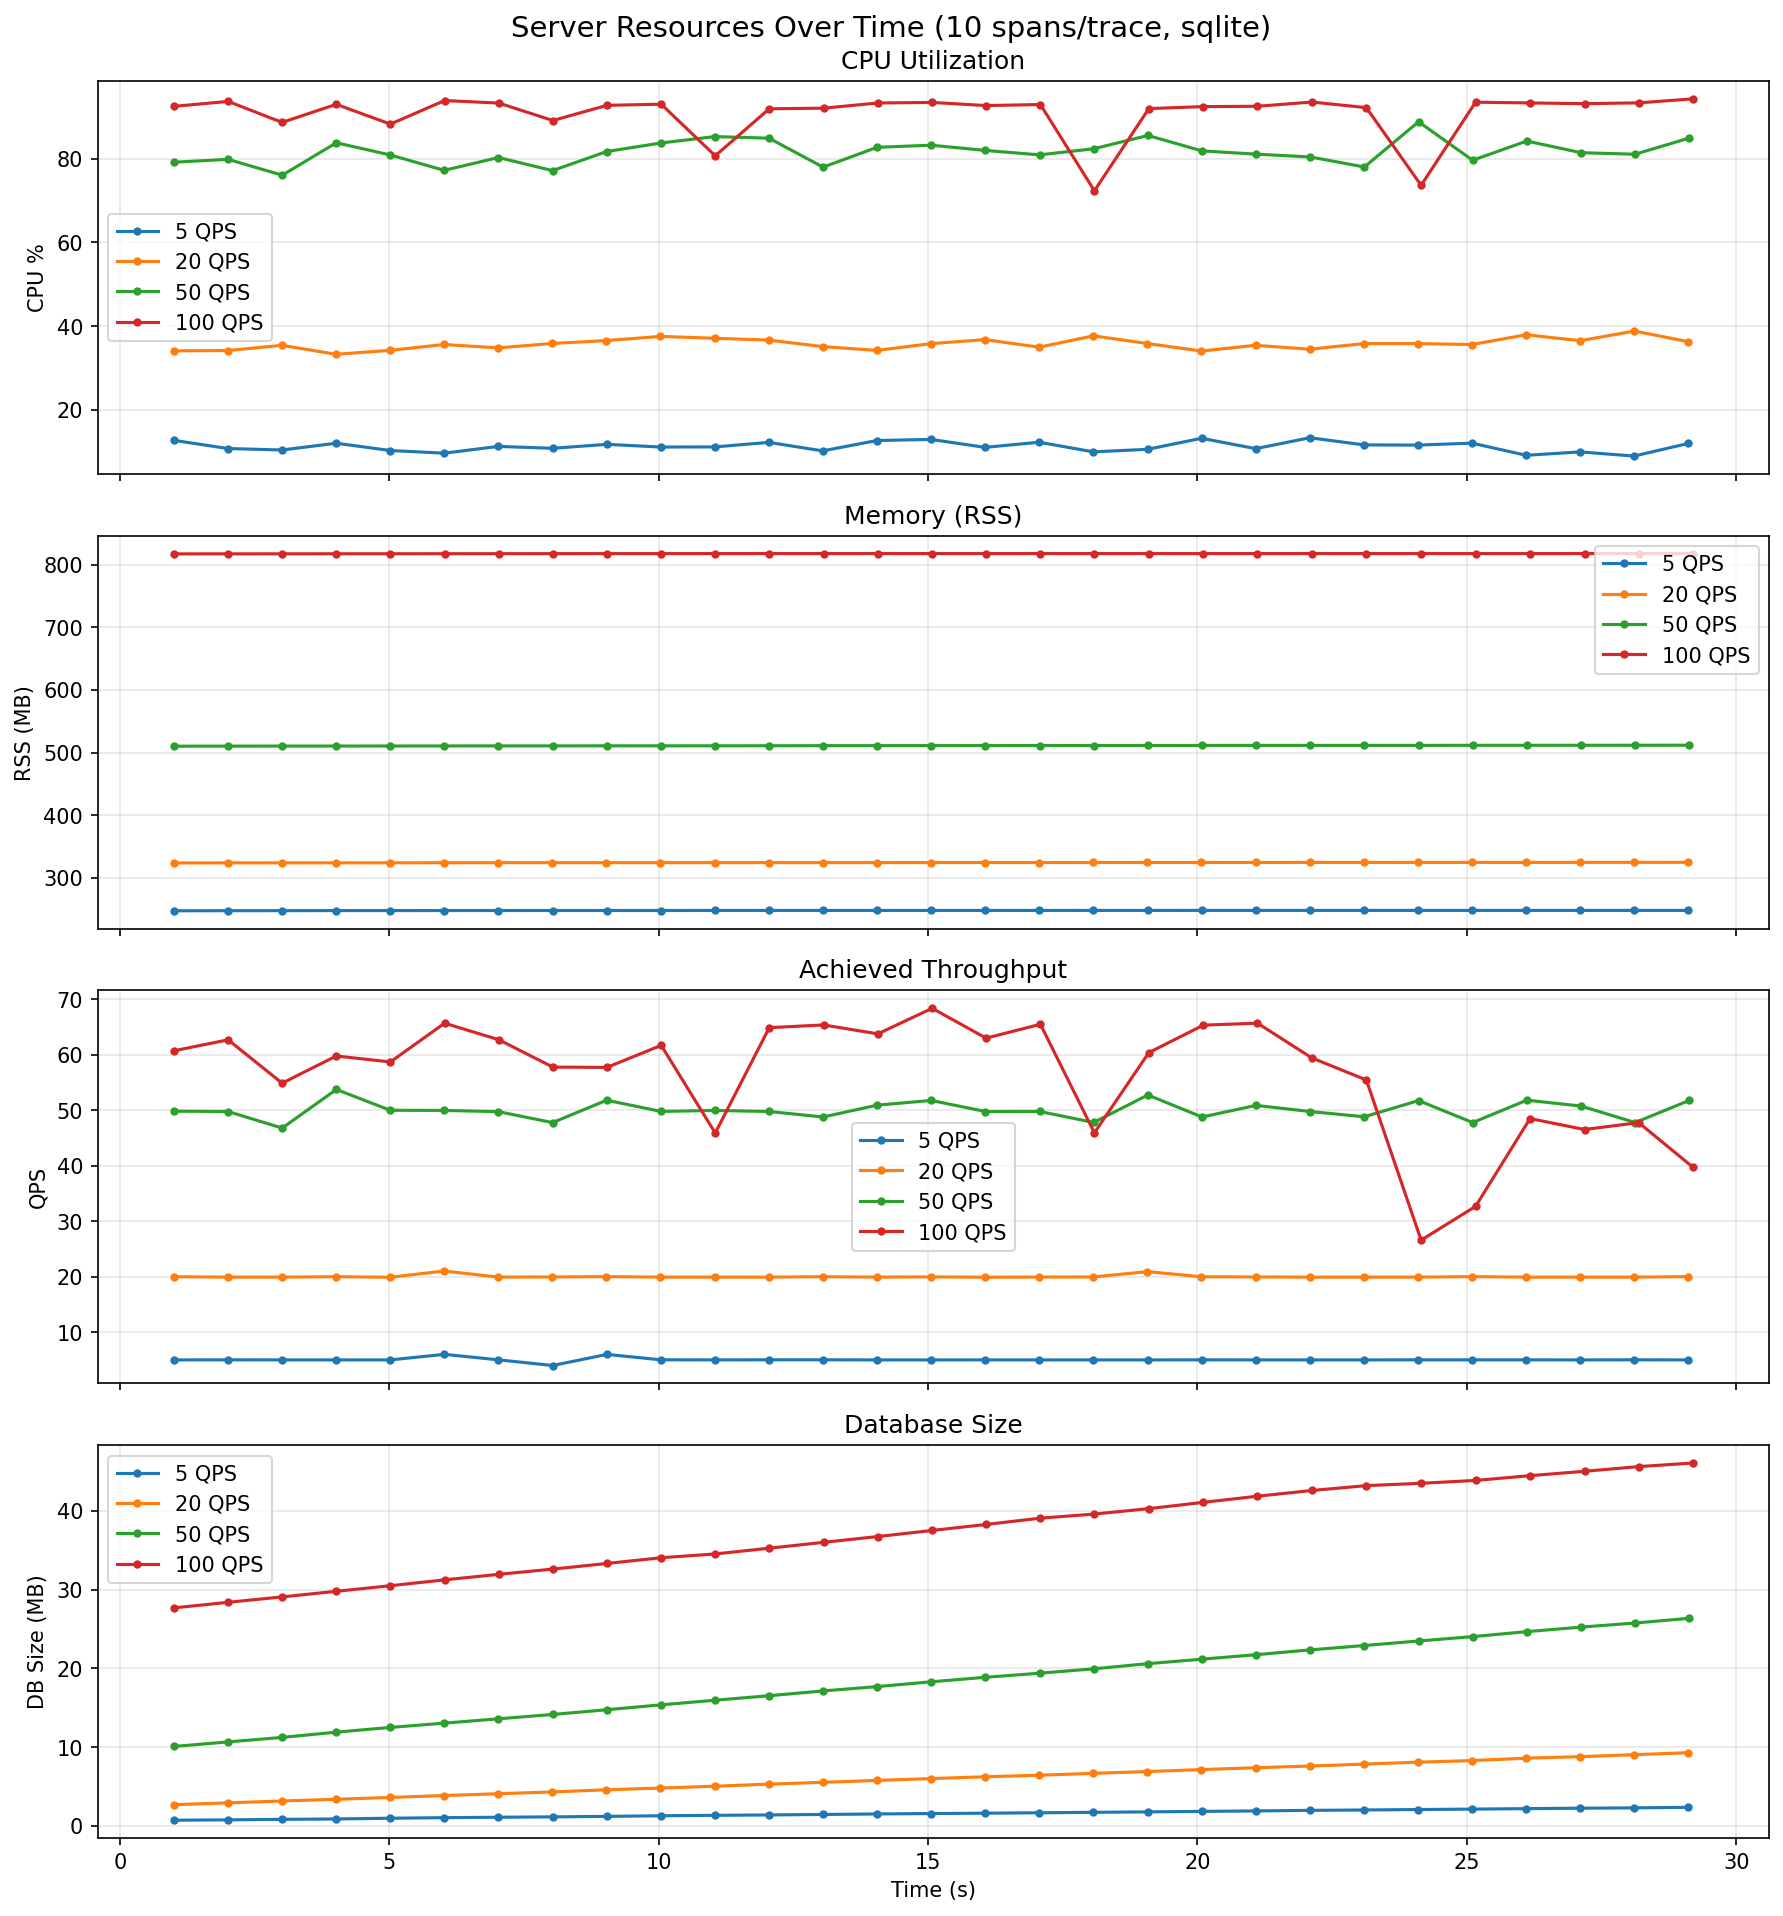
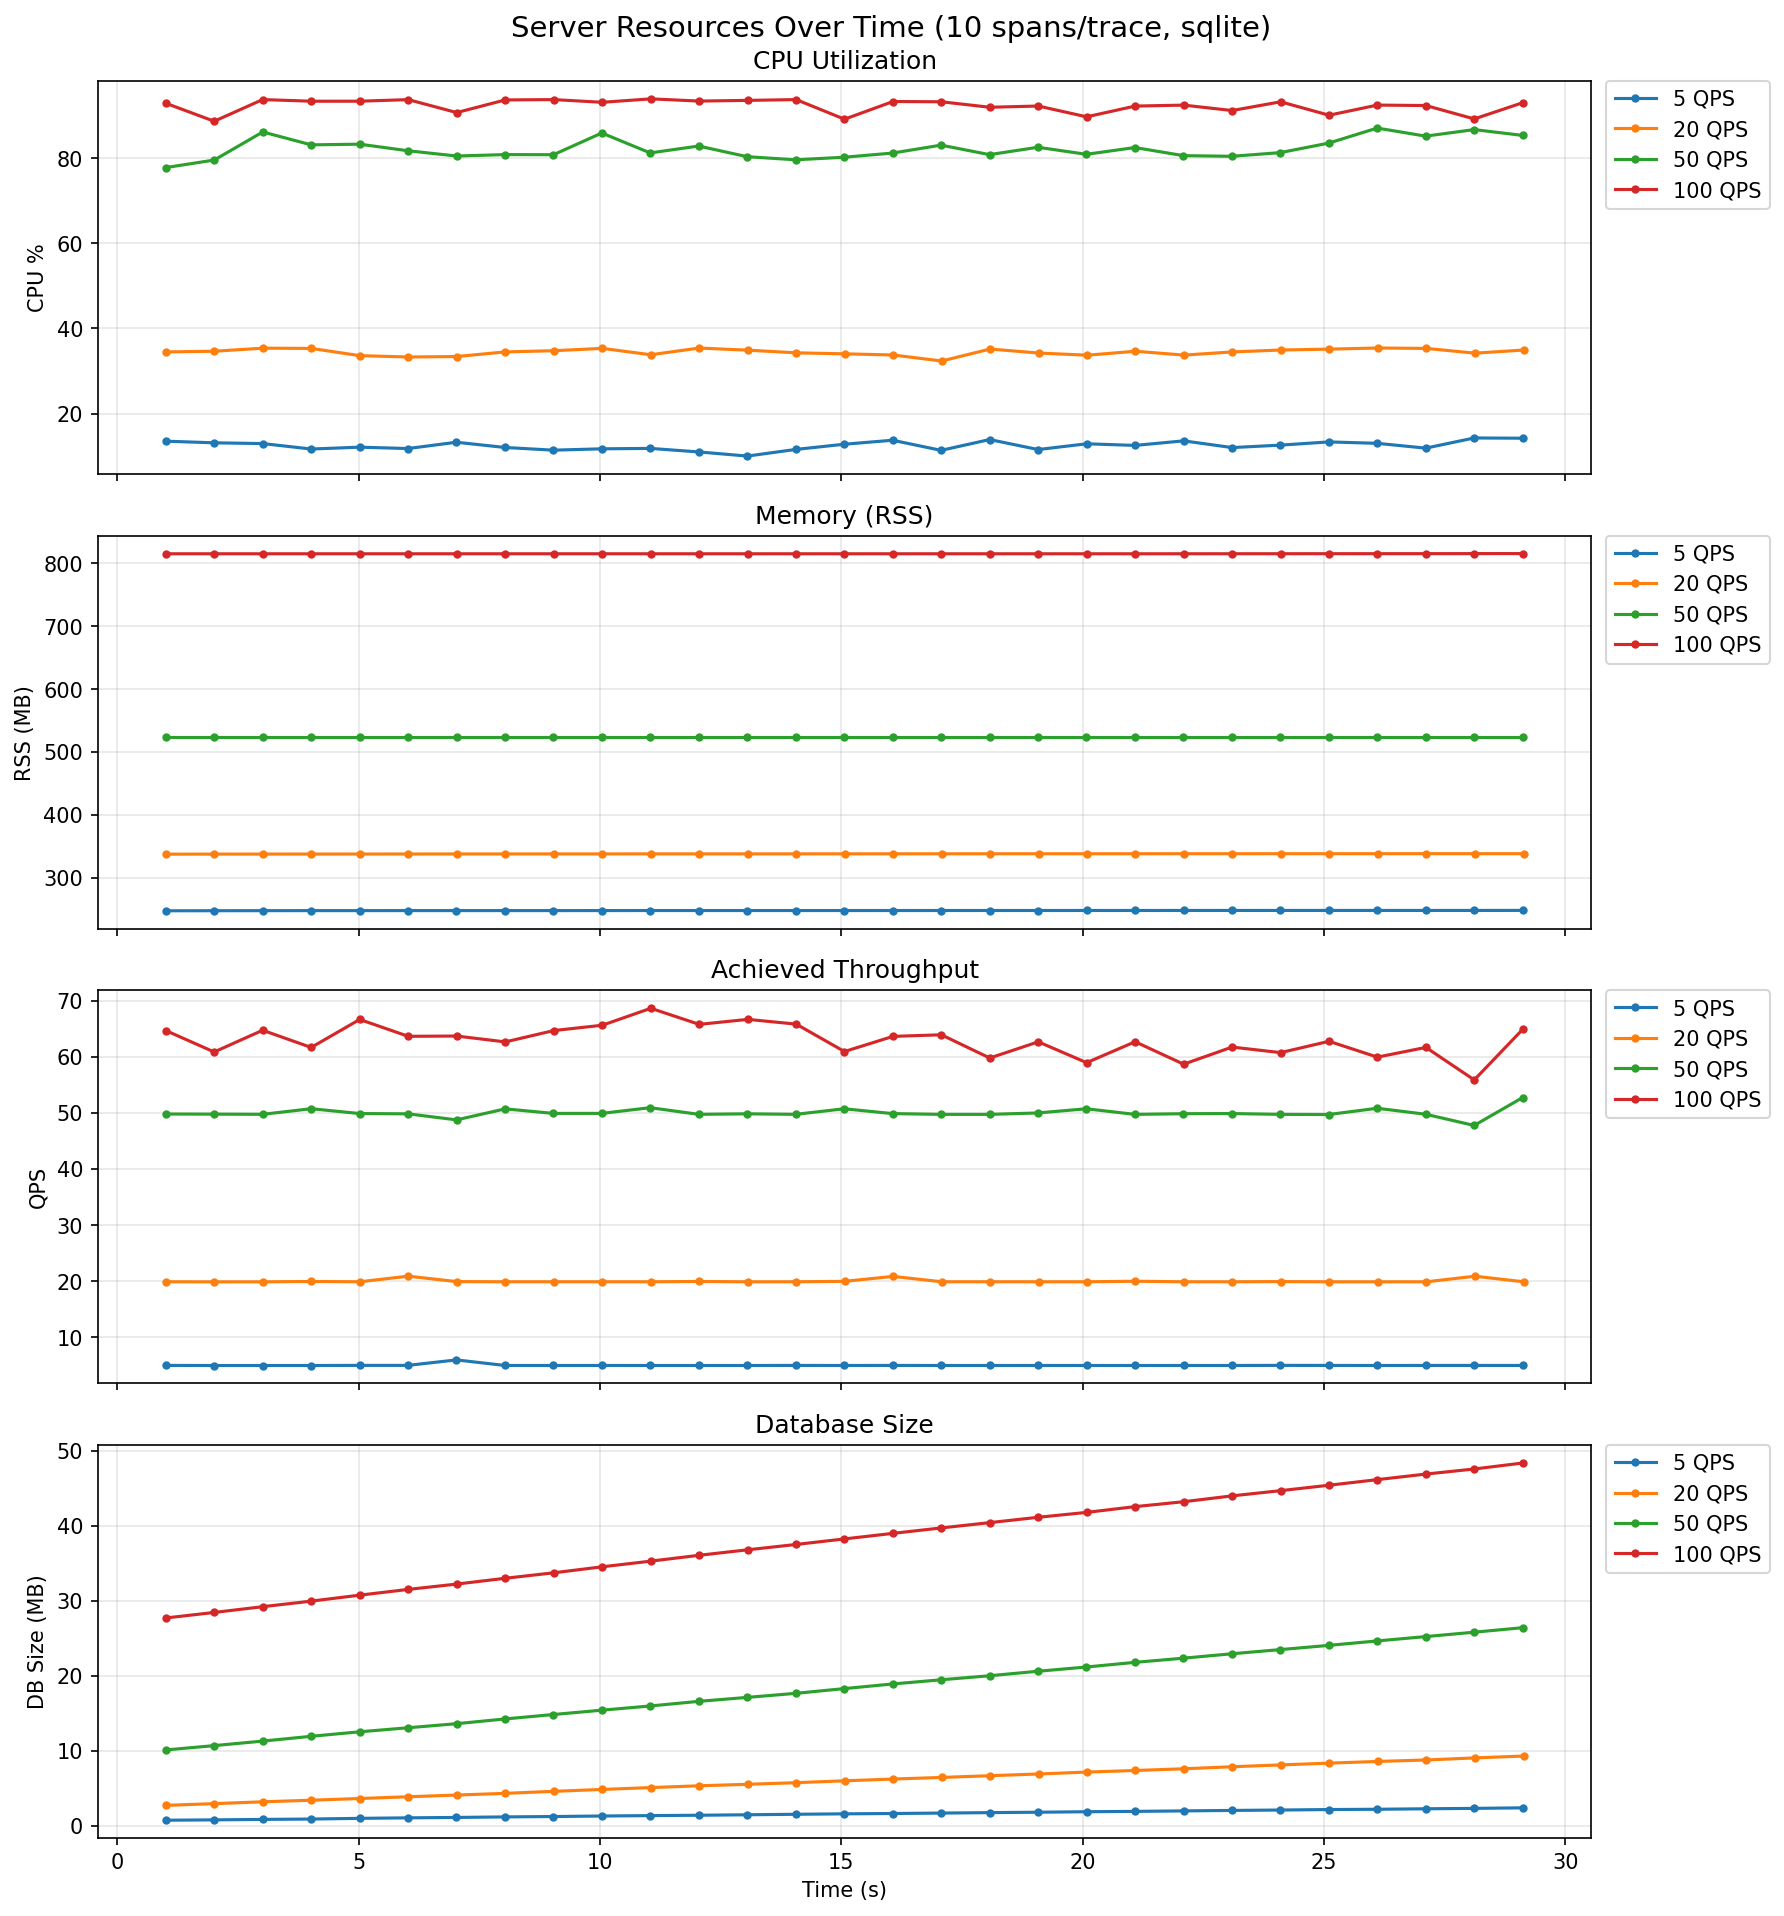
Clean up plots and unify legend placement
Move legends outside plot area for consistency. Remove unused plot
files (server_resources.png, *_50sp.png, *_100sp.png) from earlier
test runs.

diff --git a/trace_perf/bench_server_resources.py b/trace_perf/bench_server_resources.py
@@ -316,25 +316,27 @@ def plot_results(results: list[ResourceTestResult], title_suffix: str, out_path:
         axes[2].plot(times, [s.qps_instant for s in result.samples], label=label, marker=".")
         axes[3].plot(times, [s.db_size_mb for s in result.samples], label=label, marker=".")
 
+    legend_kwargs = {"bbox_to_anchor": (1.01, 1), "loc": "upper left", "borderaxespad": 0}
+
     axes[0].set_ylabel("CPU %")
     axes[0].set_title("CPU Utilization")
-    axes[0].legend()
+    axes[0].legend(**legend_kwargs)
     axes[0].grid(True, alpha=0.3)
 
     axes[1].set_ylabel("RSS (MB)")
     axes[1].set_title("Memory (RSS)")
-    axes[1].legend()
+    axes[1].legend(**legend_kwargs)
     axes[1].grid(True, alpha=0.3)
 
     axes[2].set_ylabel("QPS")
     axes[2].set_title("Achieved Throughput")
-    axes[2].legend()
+    axes[2].legend(**legend_kwargs)
     axes[2].grid(True, alpha=0.3)
 
     axes[3].set_ylabel("DB Size (MB)")
     axes[3].set_xlabel("Time (s)")
     axes[3].set_title("Database Size")
-    axes[3].legend()
+    axes[3].legend(**legend_kwargs)
     axes[3].grid(True, alpha=0.3)
 
     plt.tight_layout()
